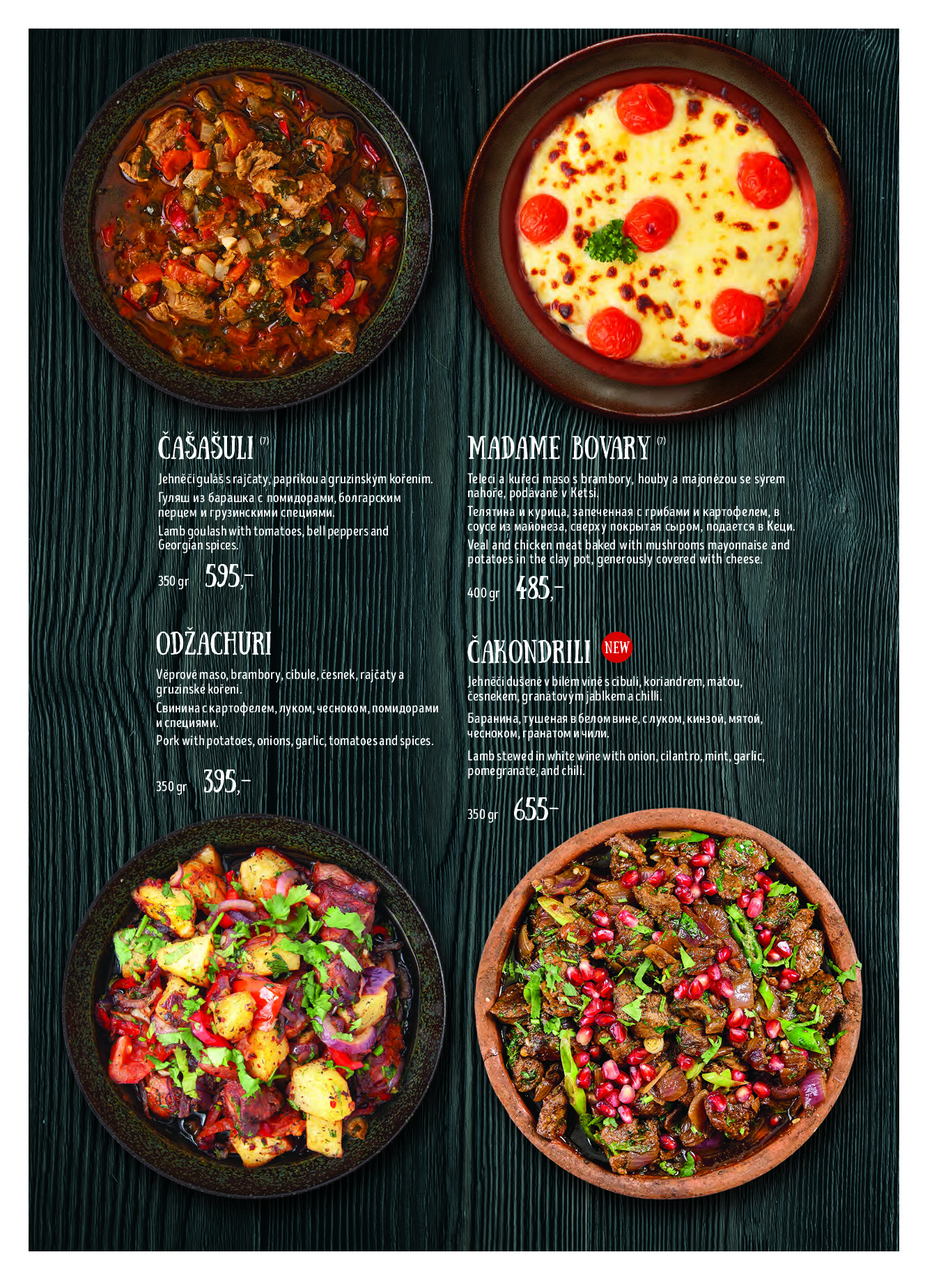
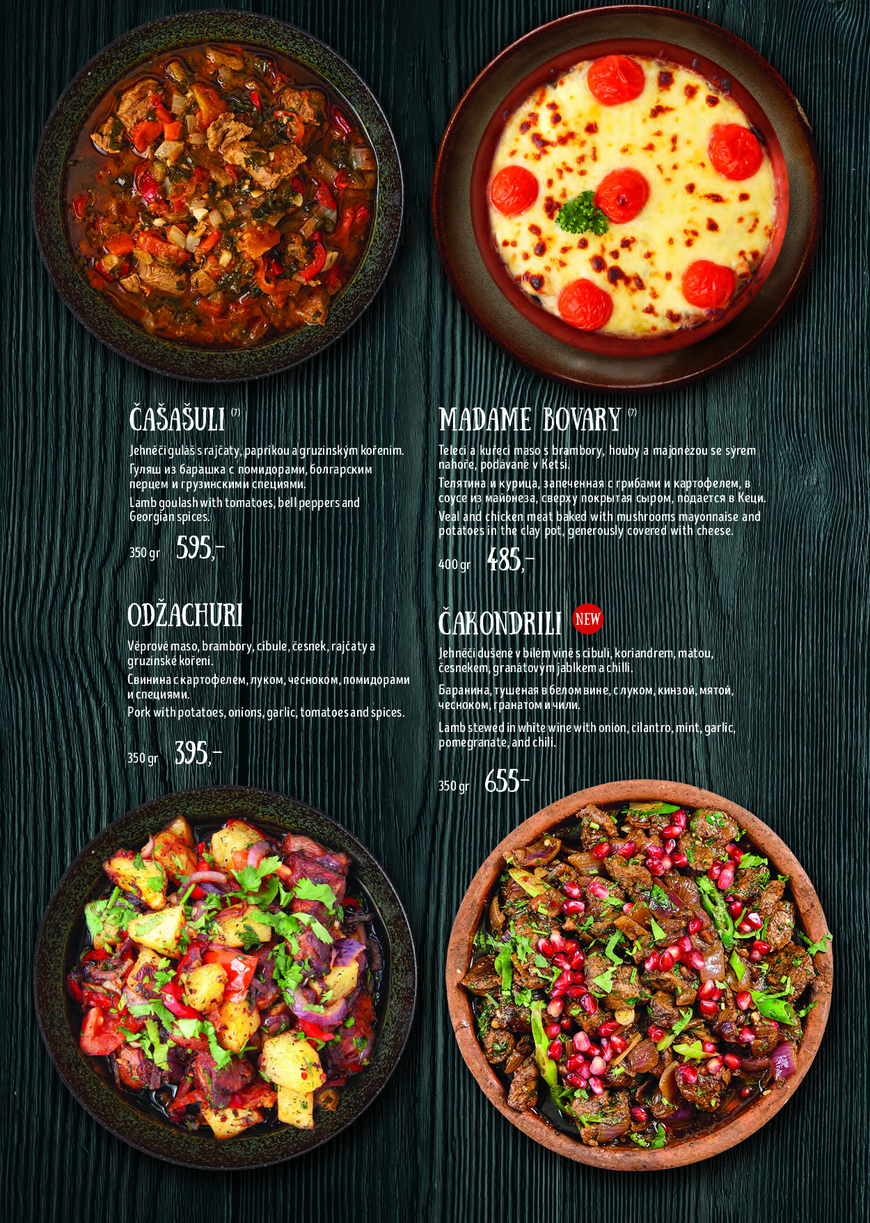
Remove white borders

diff --git a/README.md b/README.md
@@ -85,7 +85,7 @@ brew install imagemagick  # macOS
 sudo apt-get install imagemagick  # Linux
 
 # Convert PDF to JPG (recommended settings)
-magick -density 150 your-document.pdf -quality 90 page_%02d.jpg
+magick -density 150 your-document.pdf -quality 90 -trim +repage page_%02d.jpg
 ```
 
 **Conversion Options:**
